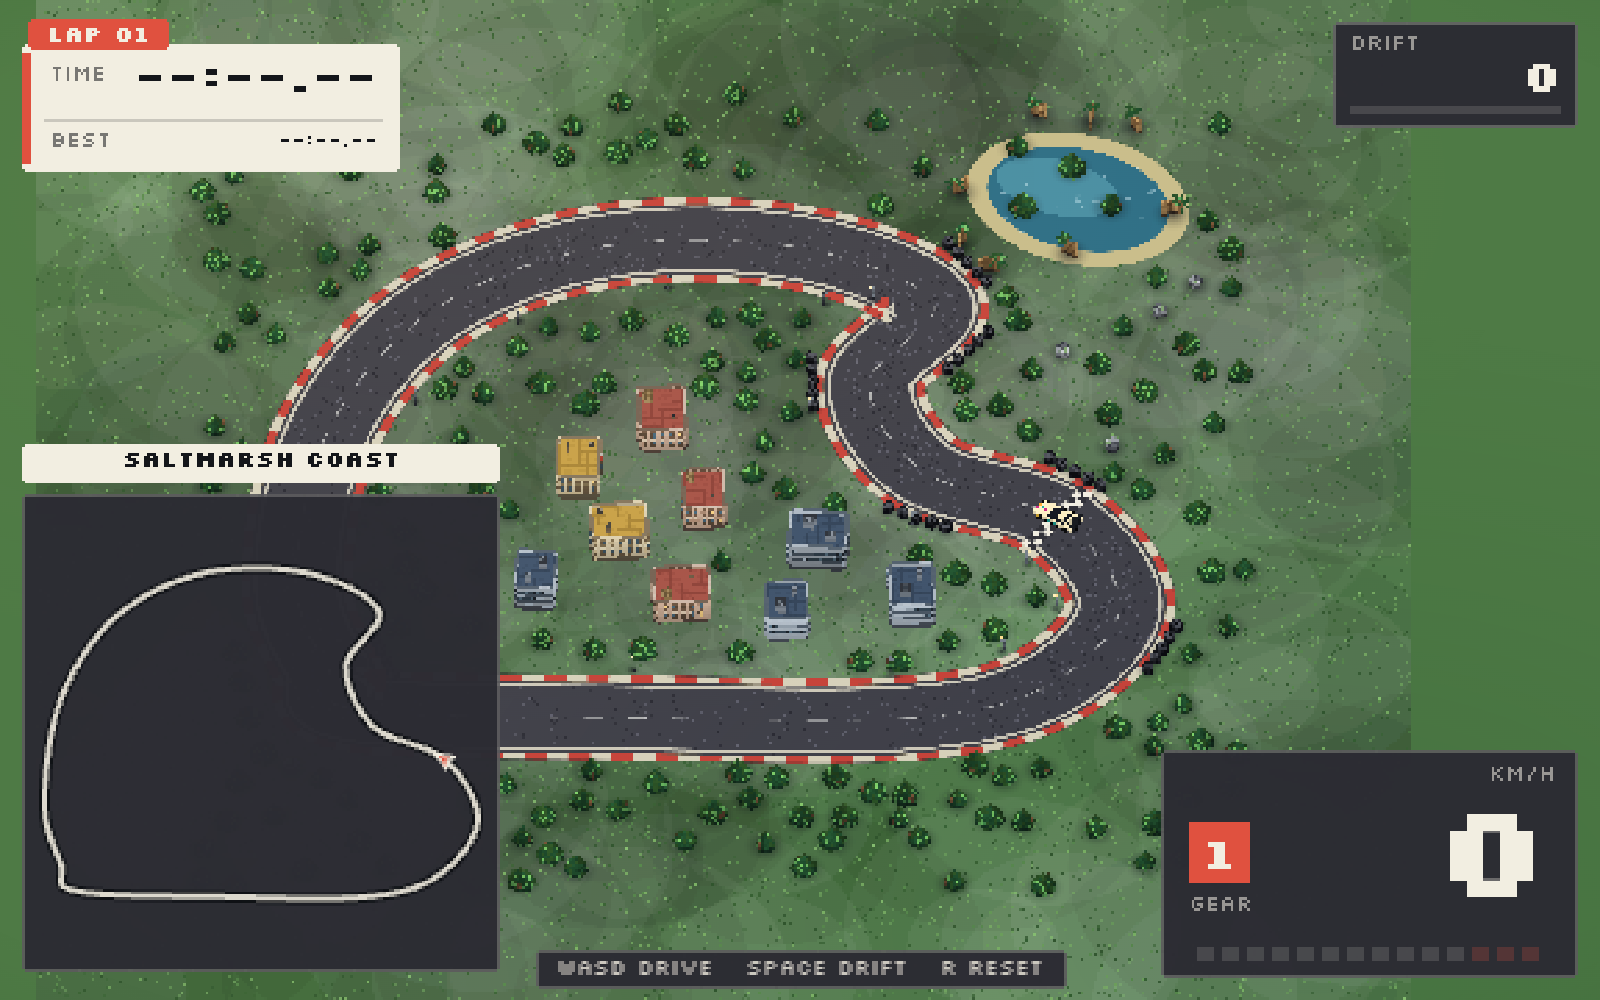
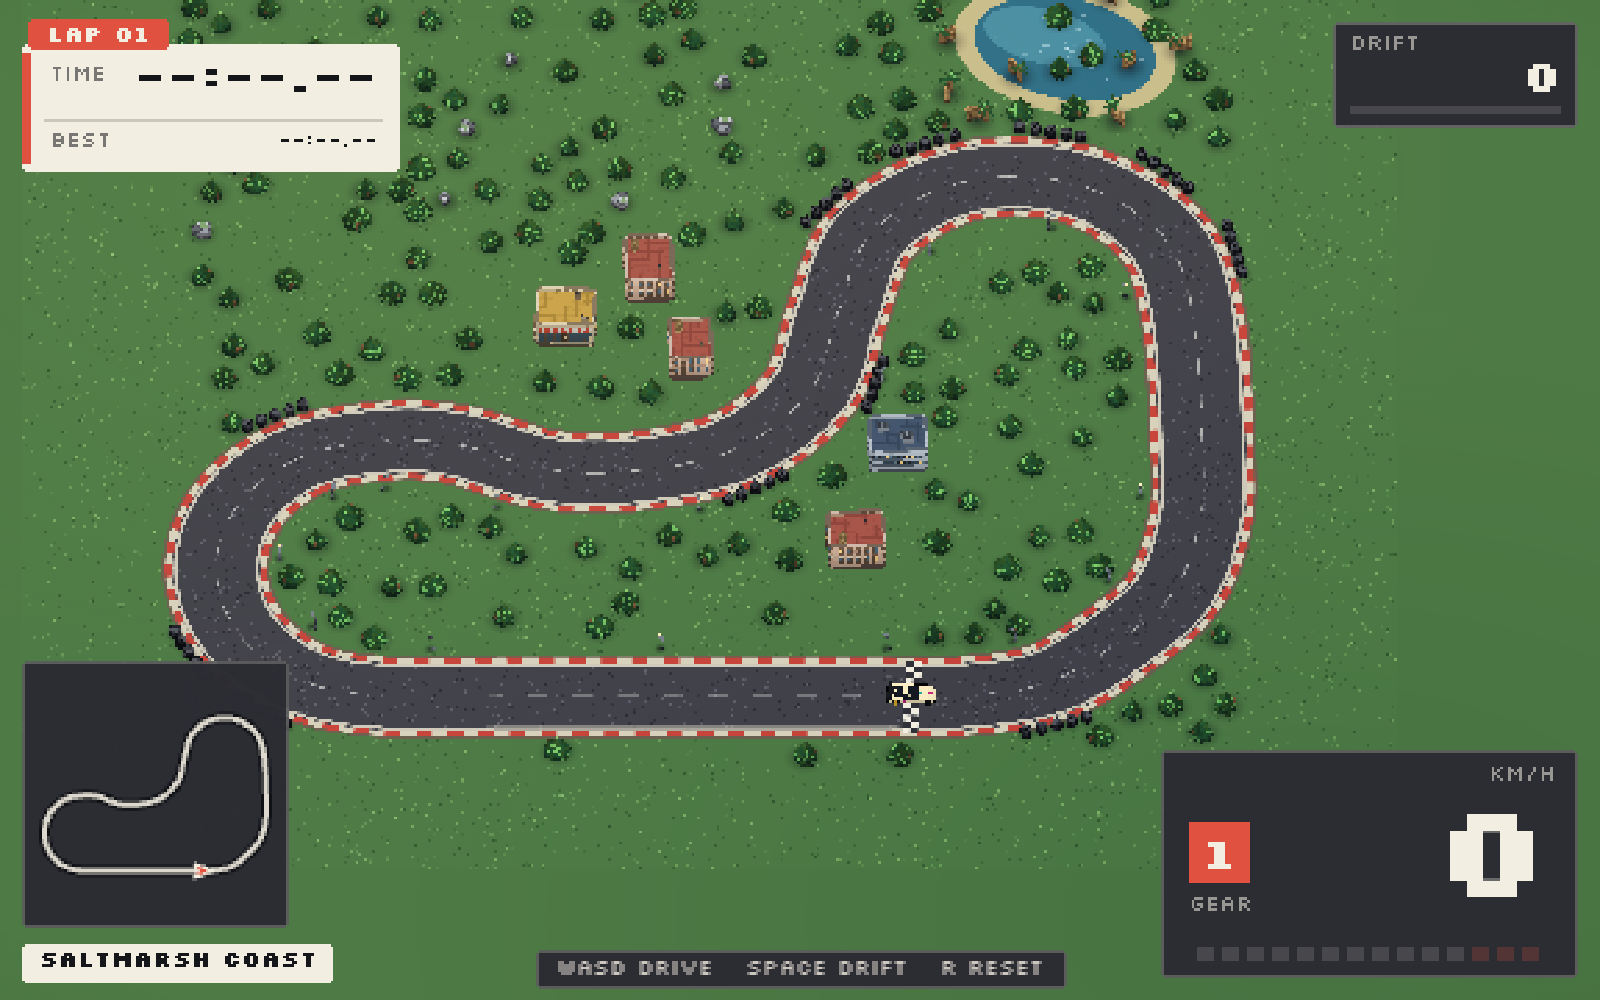
Longer 28-point coast circuit (275u, hairpin, double apex, chicane) + accounts/leaderboard UI

diff --git a/src/world.ts b/src/world.ts
@@ -58,12 +58,12 @@ export const MAPS: MapDef[] = [
     // exit corner rolling onto the back run, a quick left-right chicane, and
     // a stadium 180° U-turn up the west side back onto the straight.
     ctrl: [
-      [-39.5, 11.9], [-44.6, 17], [-46.5, 24], [-44.6, 31], [-39.5, 36.1],
-      [-32.5, 38], [-20.5, 38], [-8.5, 38], [3.5, 38], [15.5, 38], [24, 38],
-      [32.5, 36.2], [39.4, 30.8], [44.5, 24.8], [46.9, 16.4], [47.2, 7.7],
+      [-39.5, 14.3], [-45.4, 20.2], [-47.5, 28.2], [-45.4, 36.2], [-39.5, 42.1],
+      [-31.5, 44.2], [-19.5, 44.2], [-7.5, 44.2], [4.5, 44.2], [16.5, 44.2], [24, 44.2],
+      [32.5, 42.4], [39.4, 37], [44.5, 31], [46.9, 22.6], [47.2, 13.9],
       [46.2, -4], [43, -14], [34.5, -20.2], [24, -20.2], [15.5, -14],
-      [12.2, -4], [9.8, 5], [3.2, 11.6], [-5.8, 14],
-      [-15, 13.7], [-24, 10.6], [-32.5, 10.2]],
+      [12.2, -4], [9.5, 6], [2.2, 13.3], [-7.8, 16],
+      [-16, 15.7], [-24.5, 12.6], [-31.5, 12.2]],
     palette: {
       grass: '#4f7c46', tones: ['#5b8c4e', '#3d6636', '#6fa05d', '#33582f', '#7fb367'],
       bladeA: '#8cc274', bladeB: '#356031',
